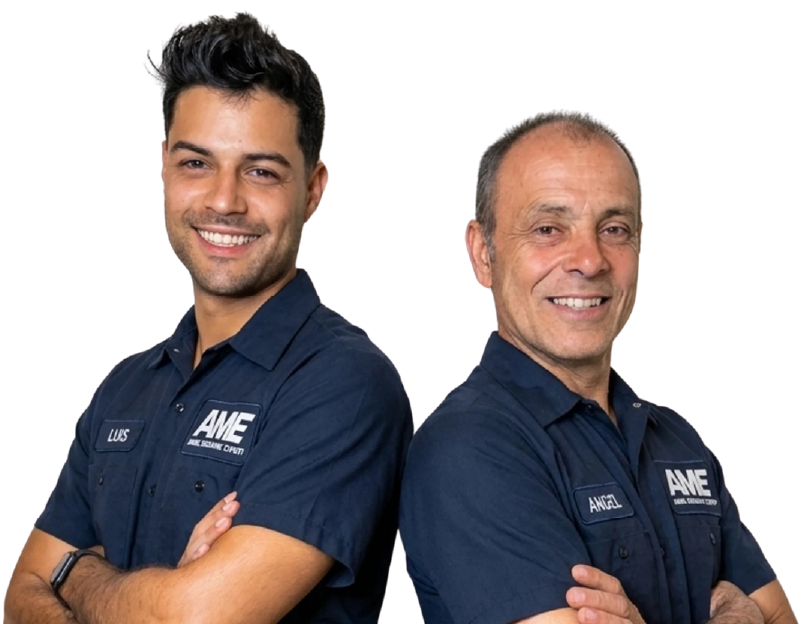
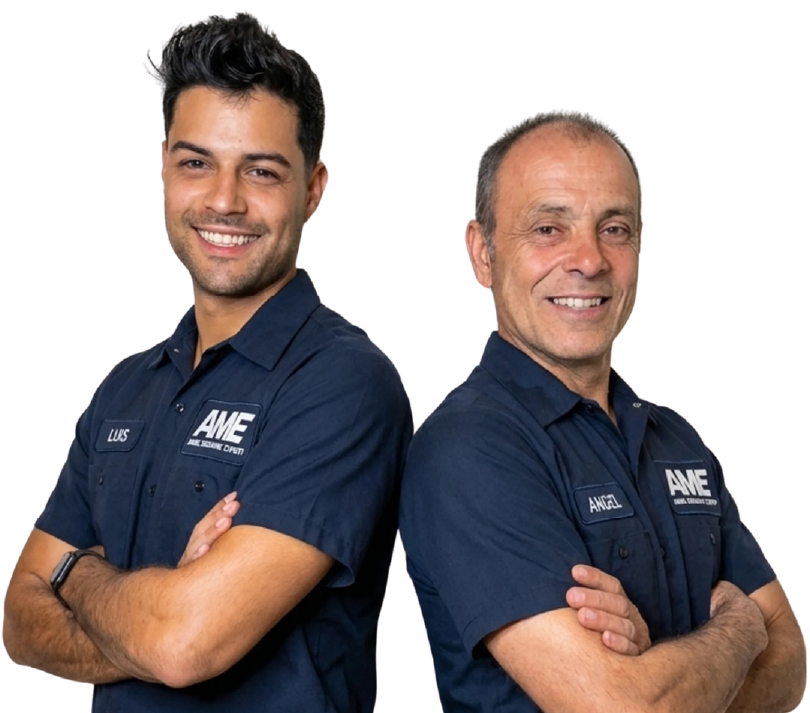
fix: adjust About section layout — image z-index, card spacing, show elbows

diff --git a/src/components/about.tsx b/src/components/about.tsx
@@ -86,8 +86,8 @@ export function About() {
           </div>
 
           {/* Right: Photo + Stats Cards */}
-          <div className="mt-14">
-            <div className="flex justify-center mb-2 -mt-24">
+          <div className="relative mt-10">
+            <div className="flex justify-center mb-2 -mt-24 relative z-0">
               <Image
                 src="/images/luis-papa-photo.png"
                 alt="Angel & Luis — Angel Mechanic Expert"
@@ -100,7 +100,7 @@ export function About() {
                 }}
               />
             </div>
-            <div className="grid grid-cols-2 gap-4 -mt-16">
+            <div className="relative z-10 grid grid-cols-2 gap-4 -mt-10">
             {t.about.statsCards.map((stat, i) => (
               <div
                 key={stat.value}
